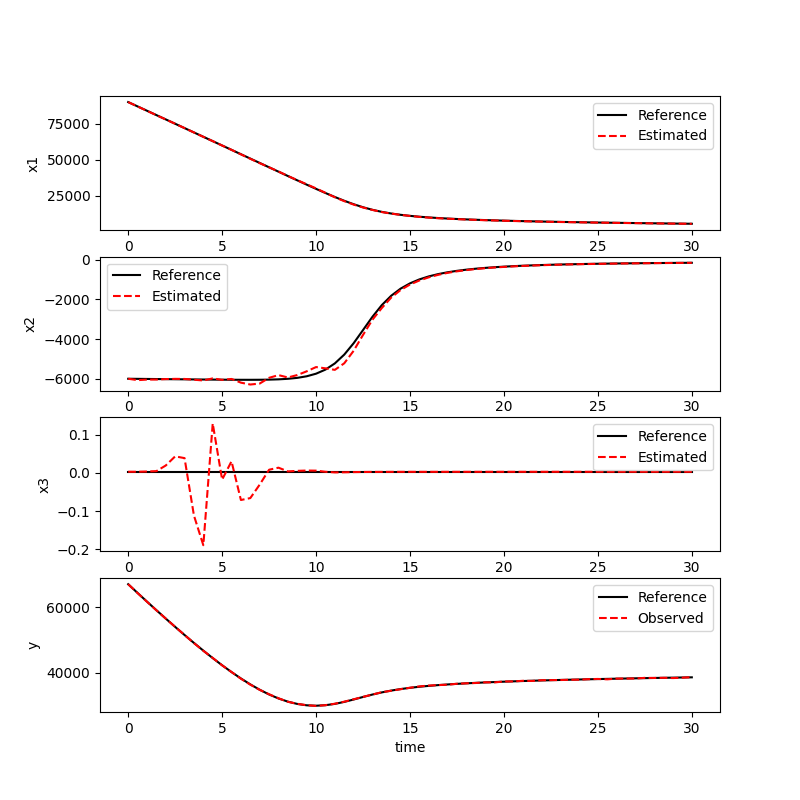
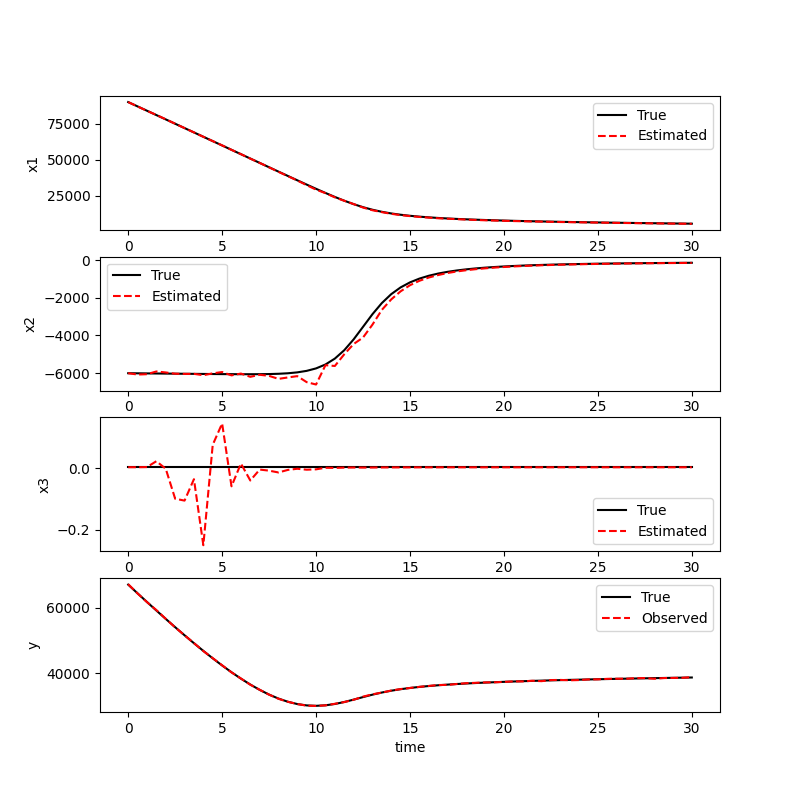
A few comments have been modified.

diff --git a/src/main.rs b/src/main.rs
@@ -14,9 +14,11 @@ use std::mem::MaybeUninit;
 // 以下の状態空間モデルを考える．
 // x[k+1] = f(x[k]) + G*w[k],
 // y[k]   = h(x[k]) + v[k].
-// このとき，行列F, G, Hのサイズはそれぞれ
-// F: N×N, G: N×R, H: P×N
-// となる．
+// このとき，各ベクトルのサイズは
+// x: N, y: P
+// また，fとhのヤコビアンと，入力行列のサイズはそれぞれ
+// F: N×N, G: N×M, H: P×N
+// である．
 
 /// 状態変数の個数
 const SYS_N: usize = 3;
@@ -168,7 +170,6 @@ impl ExUdFilter {
         // 線形化と状態変数の更新
         self.calc_jacobian_f();
         self.x = calc_f(self.x);
-        self.calc_jacobian_h();
 
         // qqとwの左NxN要素を初期化
         for j in (1..SYS_N).rev() {
@@ -234,7 +235,10 @@ impl ExUdFilter {
         let mut ff: VectorN<f64> = unsafe {MaybeUninit::uninit().assume_init()};  // U^T H^T
         let mut gg: VectorN<f64> = unsafe {MaybeUninit::uninit().assume_init()};  // D U^T H^T
 
+        // 線形化と，出力の予測値を計算
+        self.calc_jacobian_h();
         let yhat = calc_h(self.x);
+
         // 出力の数だけループ
         for l in 0..SYS_P {
             // y_diff := y - h(x)

diff --git a/data_plot.py b/data_plot.py
@@ -39,13 +39,13 @@ with open('./result.csv') as f:
             xhat[i].append(nums[i+6])
 
 # 描画
-ax1.plot(t, x[0],    label="Reference", color="black") # 真値
+ax1.plot(t, x[0],    label="True", color="black") # 真値
 ax1.plot(t, xhat[0], label="Estimated", color="red", linestyle = "--") # EKF推定値
-ax2.plot(t, x[1],    label="Reference", color="black")
+ax2.plot(t, x[1],    label="True", color="black")
 ax2.plot(t, xhat[1], label="Estimated", color="red", linestyle = "--")
-ax3.plot(t, x[2],    label="Reference", color="black")
+ax3.plot(t, x[2],    label="True", color="black")
 ax3.plot(t, xhat[2], label="Estimated", color="red", linestyle = "--")
-ax4.plot(t, y_true,  label="Reference", color="black")
+ax4.plot(t, y_true,  label="True", color="black")
 ax4.plot(t, y, label="Observed", color="red", linestyle = "--")
 ax1.legend()
 ax2.legend()
